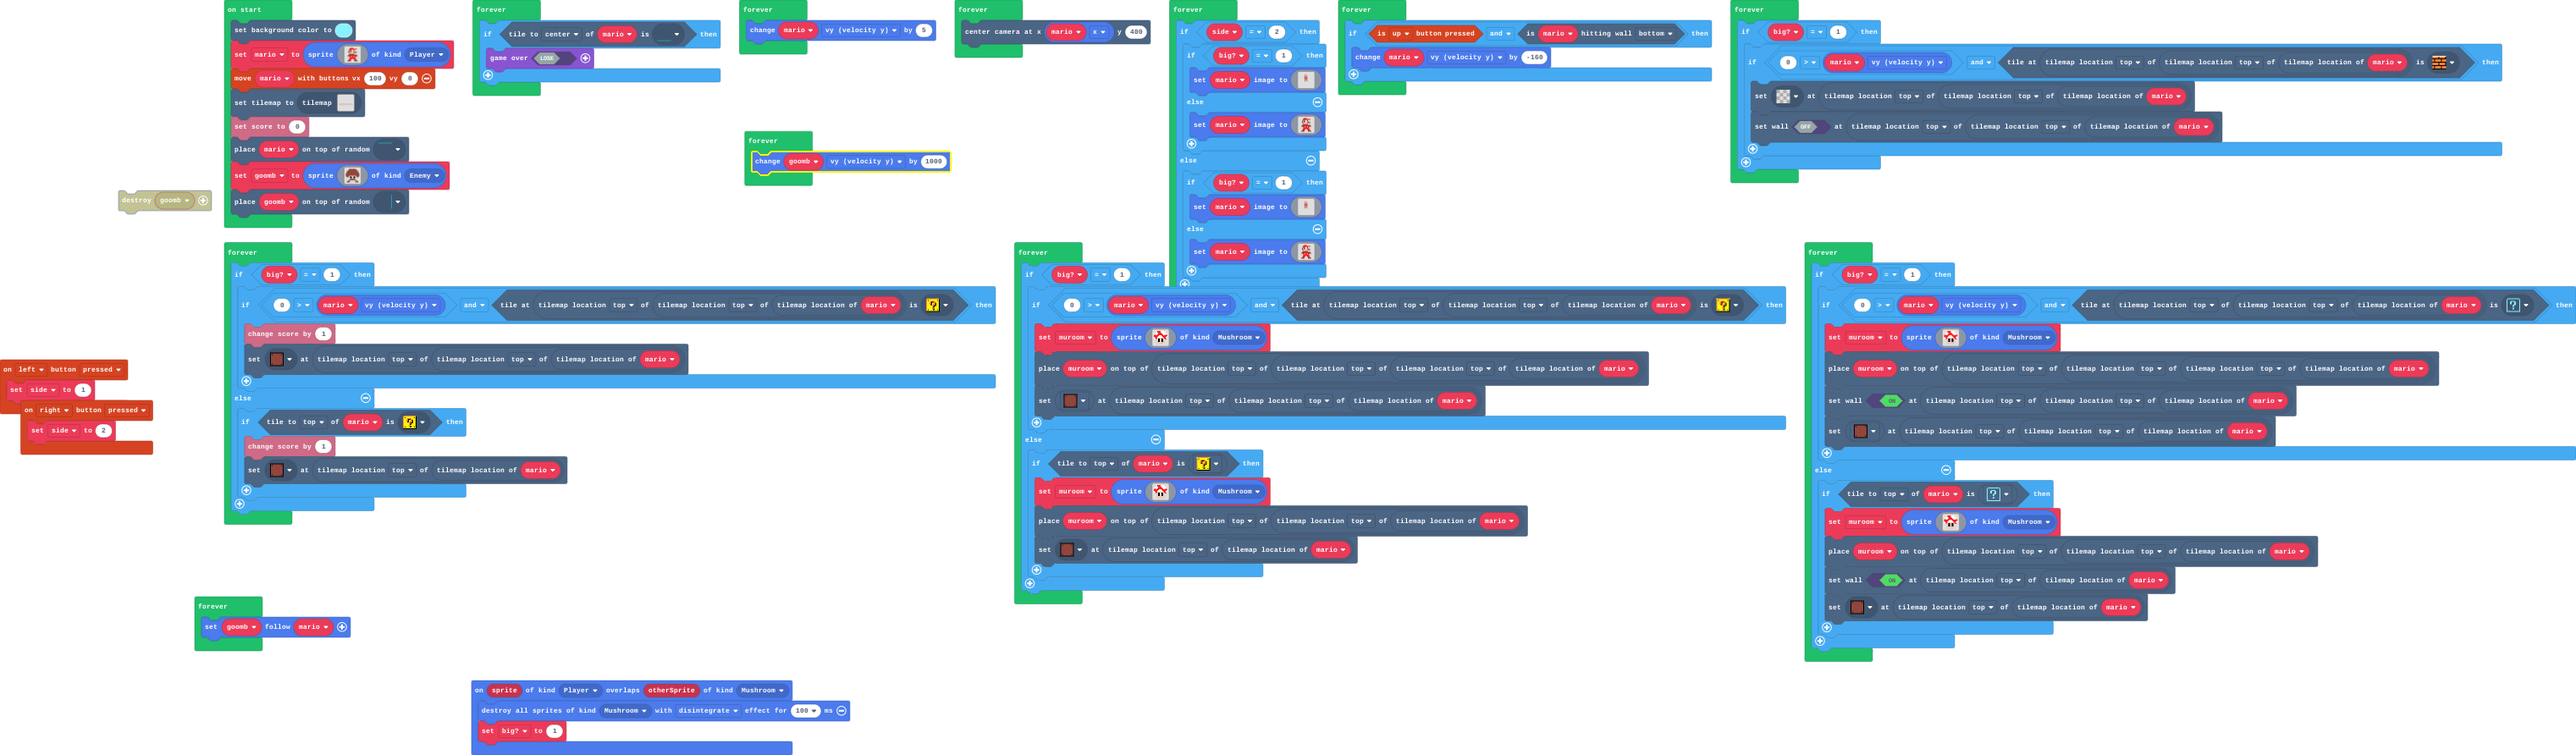
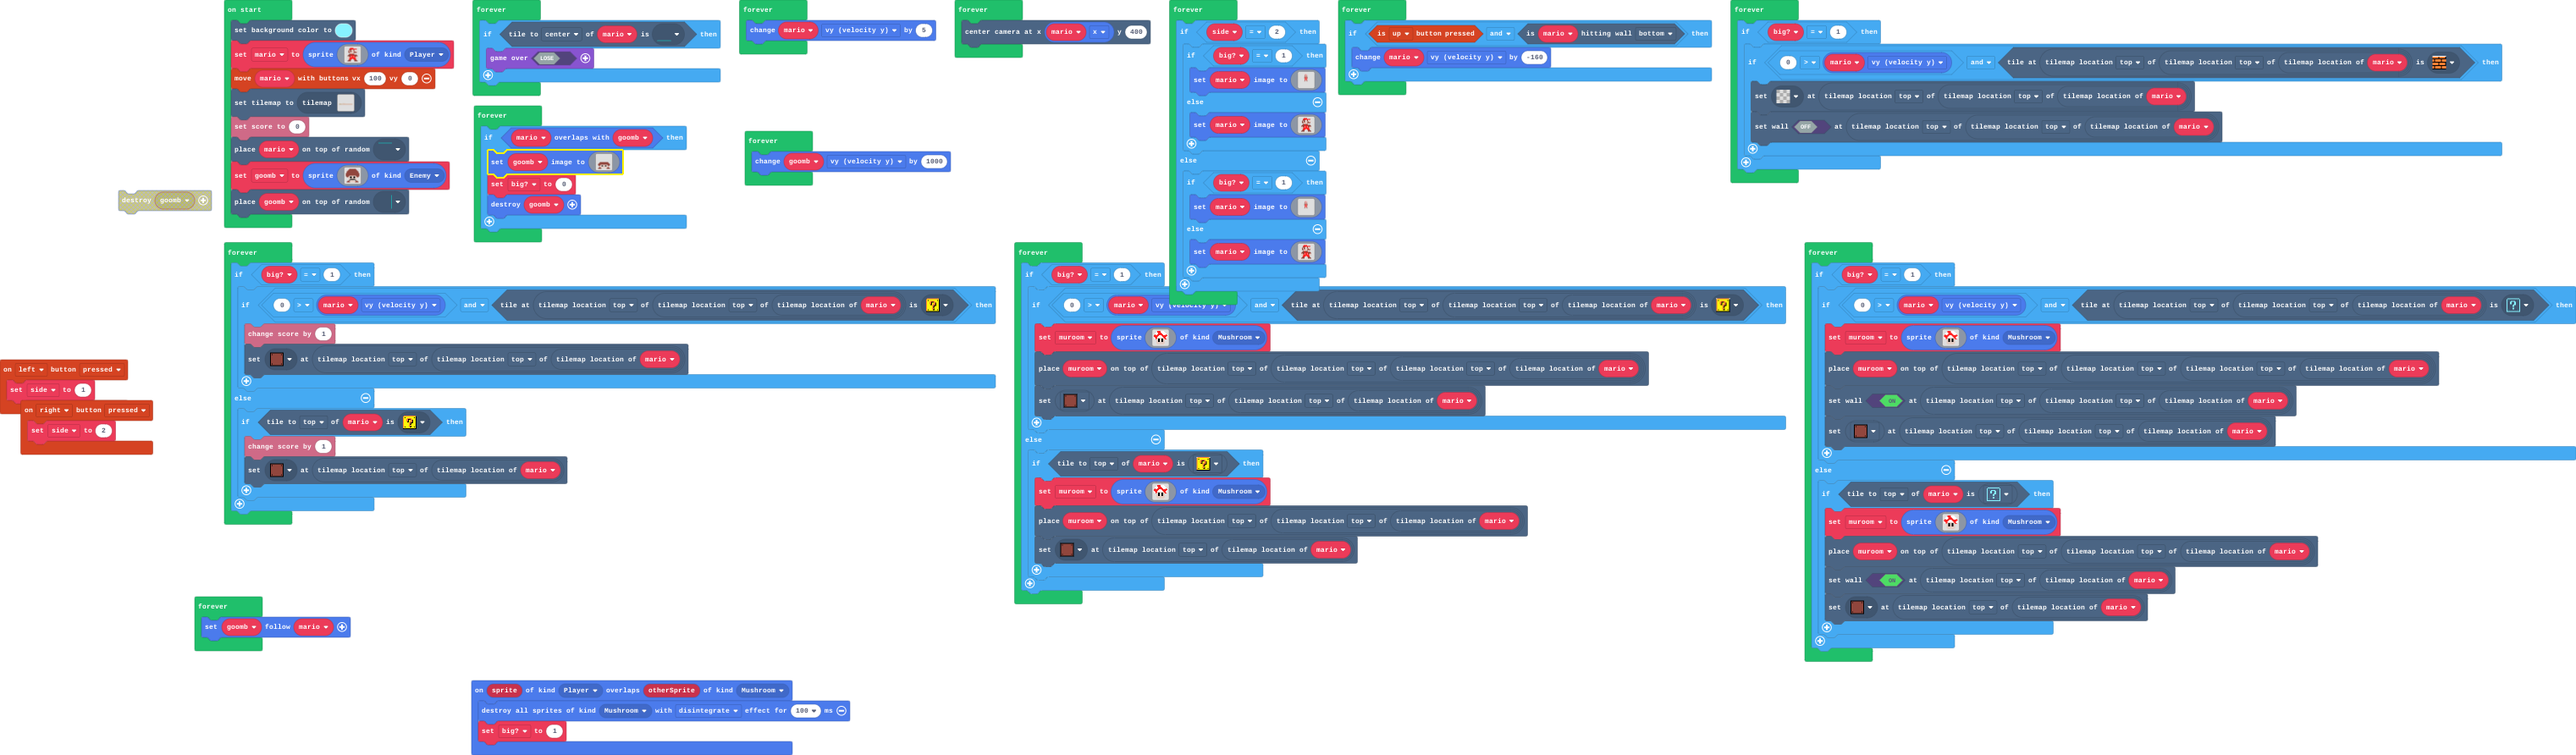
Update main.blocks, main.ts, images.g.jres, images.g.ts

Changed region(s): [[0.1561, 0.1211, 0.281, 0.333], [0.4371, 0.3632, 0.4995, 0.4238], [0.3434, 0.2119, 0.3746, 0.2422]]

diff --git a/images.g.ts b/images.g.ts
@@ -251,6 +251,25 @@ e e e e d d d d d d d d e e e e
 . . . e e e . . . . e e e . . . 
 . . e e e e . . . . e e e e . . 
 `;
+            case "image9":
+            case "dead goomb":return img`
+. . . . . . . . . . . . . . . . 
+. . . . . . . . . . . . . . . . 
+. . . . . . . . . . . . . . . . 
+. . . . . . . . . . . . . . . . 
+. . . . . . . . . . . . . . . . 
+. . . . . . . . . . . . . . . . 
+. . . . . . . . . . . . . . . . 
+. . . . . . . . . . . . . . . . 
+. . . e e e e e e e e e e . . . 
+. . e e e e e e e e e e e e . . 
+. e e e e e e e e e e e e e e . 
+. e e e d d d d d d d d e e e . 
+. . e d d f f d d f f d d e . . 
+. . . d d d d d d d d d d . . . 
+. . e e d d d d d d d d e e . . 
+. e e e e . . . . . . e e e e . 
+`;
         }
         return null;
     })

diff --git a/main.ts b/main.ts
@@ -62,6 +62,13 @@ forever(function () {
     }
 })
 forever(function () {
+    if (mario.overlapsWith(goomb)) {
+        goomb.setImage(assets.image`dead goomb`)
+        big = 0
+        sprites.destroy(goomb)
+    }
+})
+forever(function () {
     goomb.vy += 1000
 })
 forever(function () {
